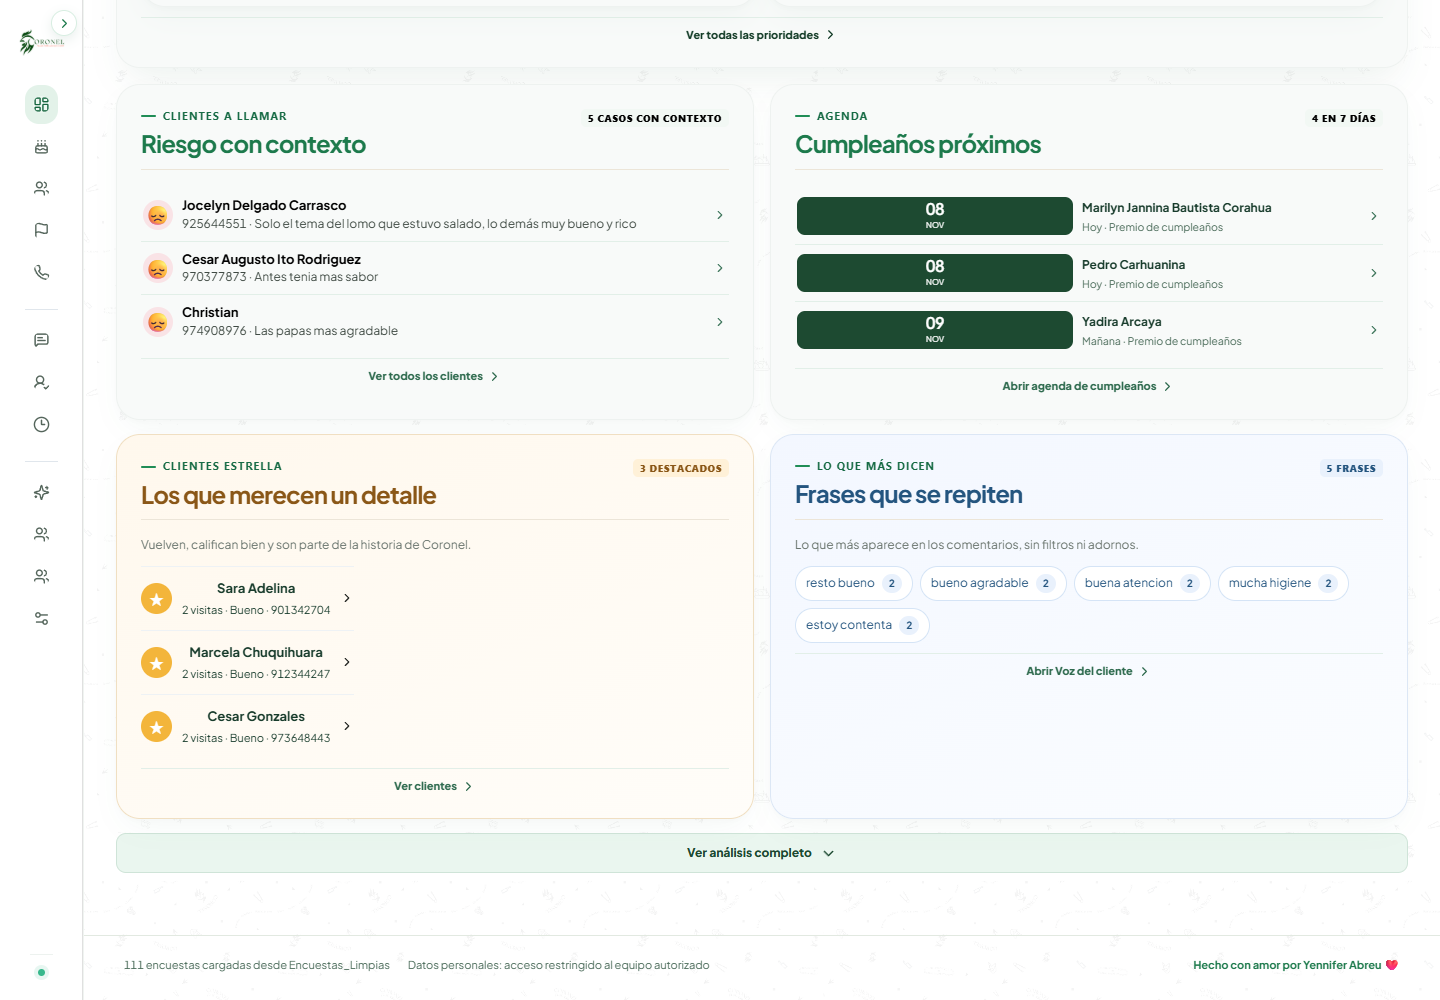
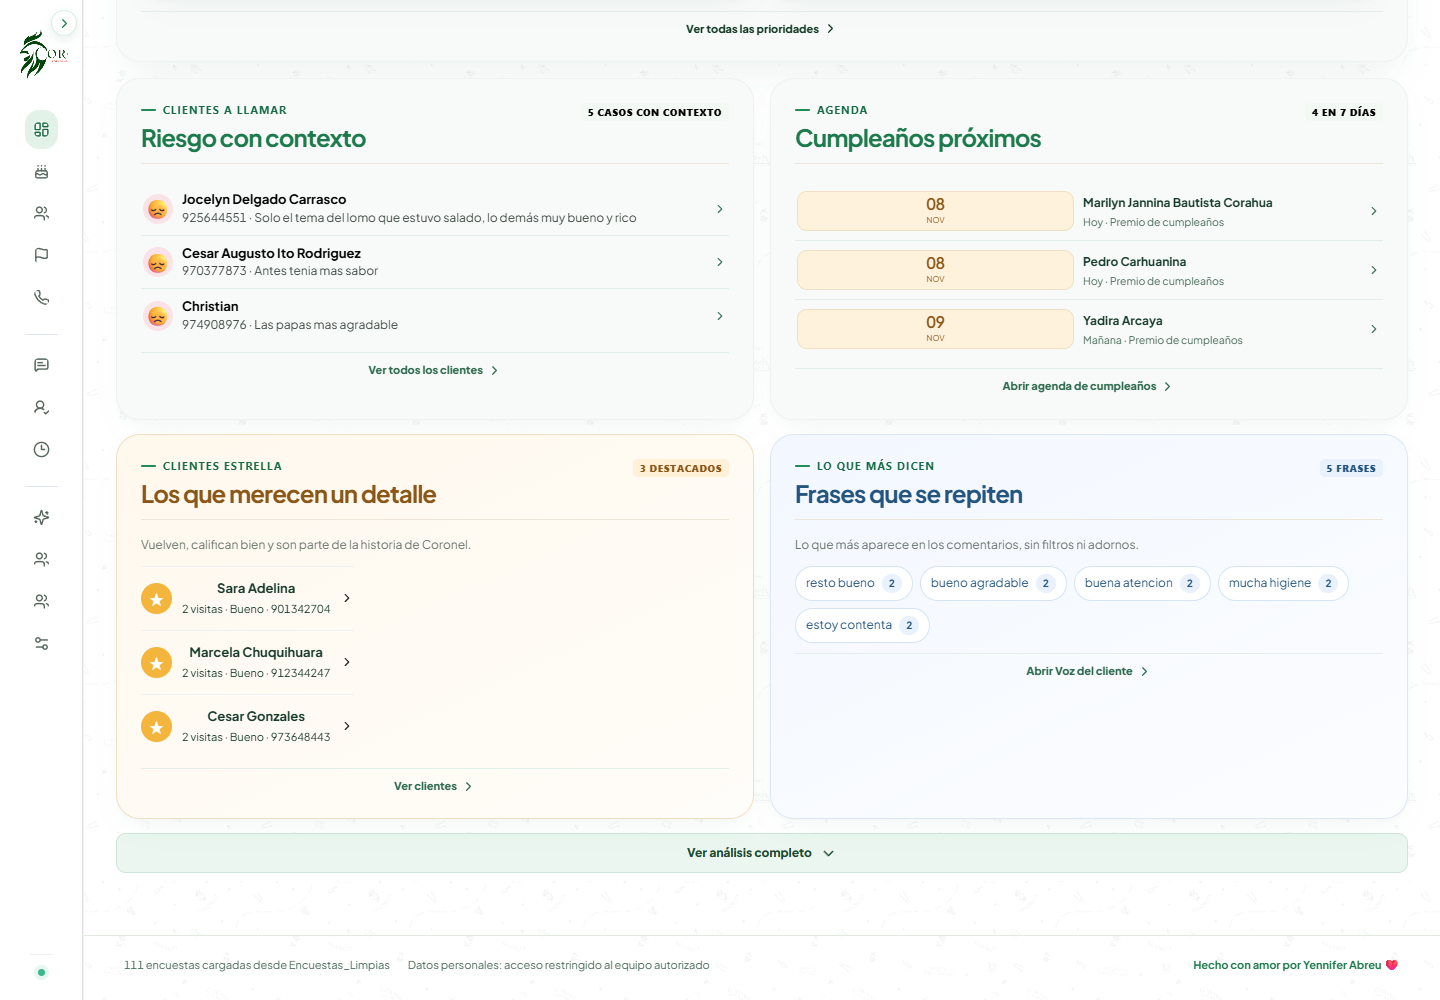
Monograma para sidebar colapsado y estilo final

diff --git a/client/src/index.css b/client/src/index.css
@@ -4697,3 +4697,19 @@ h1, h2, h3, h4, h5, h6 { letter-spacing: -.035em; }
   border-radius: 10px !important;
 }
 .agenda-date b, .agenda-date small { color: #8a5717 !important; }
+
+/* Monograma limpio cuando el sidebar está cerrado */
+.sidebar-monogram { display: none; }
+.sidebar.is-collapsed .sidebar-logo { display: none !important; }
+.sidebar.is-collapsed .sidebar-monogram {
+  display: grid;
+  place-items: center;
+  width: 48px;
+  height: 48px;
+  border-radius: 14px;
+  background: #eaf8f1;
+  color: #1d7a4c;
+  font-family: "Playfair Display", Georgia, serif !important;
+  font-size: 26px;
+  font-weight: 700;
+}

diff --git a/docs/ESTILO_ACTUAL.css b/docs/ESTILO_ACTUAL.css
@@ -521,3 +521,19 @@ h1, h2, h3, h4, h5, h6 { letter-spacing: -.035em; }
   border-radius: 10px !important;
 }
 .agenda-date b, .agenda-date small { color: #8a5717 !important; }
+
+/* Monograma limpio cuando el sidebar está cerrado */
+.sidebar-monogram { display: none; }
+.sidebar.is-collapsed .sidebar-logo { display: none !important; }
+.sidebar.is-collapsed .sidebar-monogram {
+  display: grid;
+  place-items: center;
+  width: 48px;
+  height: 48px;
+  border-radius: 14px;
+  background: #eaf8f1;
+  color: #1d7a4c;
+  font-family: "Playfair Display", Georgia, serif !important;
+  font-size: 26px;
+  font-weight: 700;
+}

diff --git a/client/src/pages/Home.tsx b/client/src/pages/Home.tsx
@@ -1099,6 +1099,7 @@ export default function Home() {
             src="/manus-storage/logo-coronel.png"
             alt="Coronel · Pollos y Parrillas"
           />
+          <span className="sidebar-monogram" aria-hidden="true">C</span>
         </div>
         <span className="brand-tagline">Sistema de gestión</span>
         <div className="side-label">REPORTE</div>
